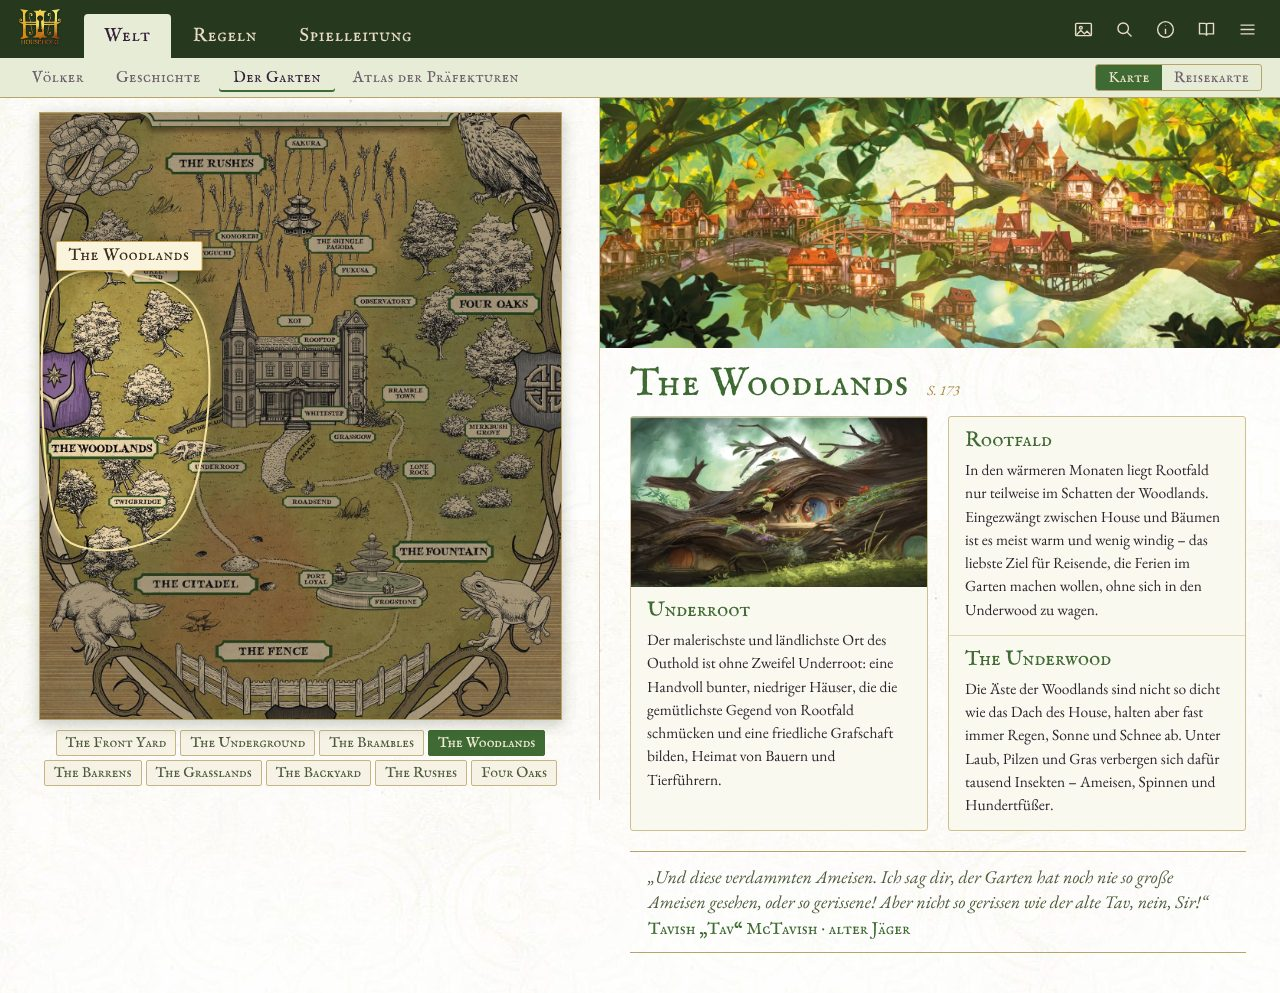
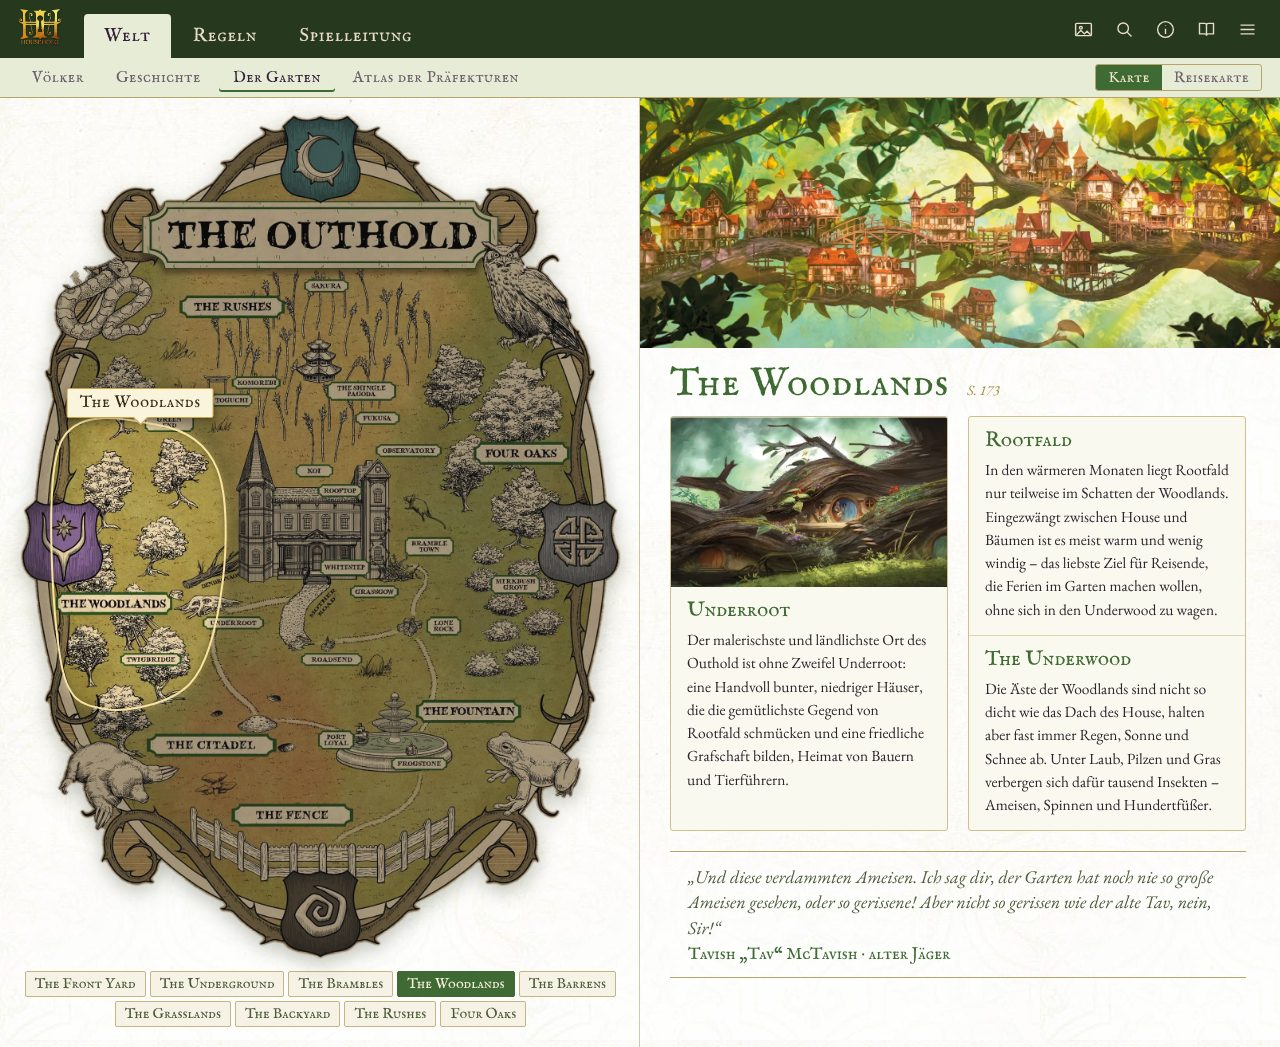
Household: Outhold-Karte vom Holz freigestellt, Garten-Mockup

diff --git a/plan/household/mockups/src/m6-garten.html b/plan/household/mockups/src/m6-garten.html
@@ -3,9 +3,9 @@
 :root{--vio:#3f6a34;--vio2:#6d8f4e;--rule:#b7a46a}
 body{background-image:url(deko/papier-garten-kachel.jpg)}
 .unter{background:#e7ecd6}.unter .sw a.on{background:#3f6a34}
-.lay{display:grid;grid-template-columns:600px 1fr;gap:0;align-items:start}
-.karte{position:sticky;top:98px;padding:14px 16px 14px 18px;border-right:1px solid rgba(183,164,106,.6);height:calc(100vh - 98px);display:flex;flex-direction:column;gap:10px}
-.karte .mp{position:relative;flex:1;min-height:0;display:flex;justify-content:center}.karte .mp .in{position:relative;height:100%;aspect-ratio:1360/1584;border:1px solid #b7a46a;box-shadow:0 4px 14px rgba(40,50,20,.25)}.karte .mp img{width:100%;height:100%;display:block}
+.lay{display:grid;grid-template-columns:640px 1fr;gap:0;align-items:start}
+.karte{padding:16px 18px 20px 20px;border-right:1px solid rgba(183,164,106,.6);display:flex;flex-direction:column;gap:12px}
+.karte .mp{position:relative}.karte .mp .in{position:relative;width:100%;aspect-ratio:1508/2120;filter:drop-shadow(0 6px 10px rgba(40,50,20,.3))}.karte .mp img{width:100%;height:100%;display:block}.karte .spot{-webkit-mask:var(--mk) center/100% 100% no-repeat;mask:var(--mk) center/100% 100% no-repeat}
 .karte .hot{position:absolute;border:2px solid #fff6c9;background:rgba(63,106,52,.25);box-shadow:0 0 0 2px #3f6a34,0 0 16px rgba(255,245,190,.9);border-radius:50%}
 .geb{display:flex;flex-wrap:wrap;gap:4px;justify-content:center}
 .geb a{font:14.5px Fell,serif;padding:3px 9px;border:1px solid #c5b585;border-radius:2px;color:#4c5a3a;background:#f6f3e6}
@@ -24,7 +24,7 @@ body{background-image:url(deko/papier-garten-kachel.jpg)}
 </style></head><body>
 <script>kopf({bg:'#26391f',on:'Welt',unterBg:'#e7ecd6',unter:['Völker','Geschichte','Der Garten','Atlas der Präfekturen'],uon:'Der Garten',sw:['Karte','Reisekarte'],swon:'Karte',logo:img('grundbuch-s-01-umschlag-vorspann-c')})</script>
 <div class="lay">
- <div class="karte"><div class="mp"><div class="in" id="mp"><img src="deko/outhold-innen.jpg"></div></div>
+ <div class="karte"><div class="mp"><div class="in" id="mp"><img id="ki"></div></div>
   <div class="geb"><a>The Front Yard</a><a>The Underground</a><a>The Brambles</a><a class="on">The Woodlands</a><a>The Barrens</a><a>The Grasslands</a><a>The Backyard</a><a>The Rushes</a><a>Four Oaks</a></div></div>
  <div class="inh">
   <div class="pano" id="pa"></div>
@@ -37,8 +37,8 @@ body{background-image:url(deko/papier-garten-kachel.jpg)}
   </div>
  </div>
 </div>
-<script>spot(mp,[[2,30],[20,27],[31,34],[32,52],[26,68],[10,72],[2,64]],'The Woodlands',17,26);pa.style.backgroundImage='url('+img('garten-s178-179-vii-the-woodlands-ganz')+')';i1.style.backgroundImage='url('+img('garten-s173-vii-the-woodlands')+')';</script>
+<script>var K=img('garten-s153-karte-des-gartens-the-outhold-frei');ki.src=K;mp.style.setProperty('--mk','url('+K+')');spot(mp,[[6.7,39],[22.9,36.8],[32.8,42],[33.7,55.5],[28.3,67.4],[13.9,70.4],[6.7,64.4]],'The Woodlands',20,36);pa.style.backgroundImage='url('+img('garten-s178-179-vii-the-woodlands-ganz')+')';i1.style.backgroundImage='url('+img('garten-s173-vii-the-woodlands')+')';</script>
 <div class="note" style="left:20px;top:60px;max-width:300px">Untersetting Garten: eigenes Grün, gleiche Bedienung</div>
-<div class="note" style="left:330px;top:560px;max-width:260px">Karte ohne Rahmen und größer; Rest abgedunkelt, Gebiet mit feiner Goldlinie</div>
+<div class="note" style="left:330px;top:560px;max-width:260px">Karte samt Dornenrahmen vom Holz freigestellt, groß; Gebiet mit feiner Goldlinie</div>
 <div class="note" style="left:960px;top:110px;max-width:260px">Umschalter Karte / Reisekarte (Taste m)</div>
 </body></html>

diff --git a/sw.js b/sw.js
@@ -1,6 +1,6 @@
 // Offline-Cache. Bei jeder Änderung an index.html die Version erhöhen,
 // damit installierte Apps die neue Fassung laden.
-const VERSION = "v900sq";
+const VERSION = "v901sq";
 const CACHE = "erzaehler-tafel-" + VERSION;
 const FILES = [
   "./",

diff --git a/plan/HOUSEHOLD_PLAN.md b/plan/HOUSEHOLD_PLAN.md
@@ -136,6 +136,7 @@ Unter `plan/household/mockups/` (je mit `-erklaert`-Fassung), Quellen in `src/` 
 - **m7-saga-start-fp / m8-saga-start-lw** – Saga-Startseite („Überblick“ als erster Reiter der Saga-Leiste, eine Vorlage `m7-saga-start.html#fp|#lw`): Hero, Einleitung aus dem Buch, Fakten (Zeitraum, Schauplatz, Figuren, ausgearbeitet/skizziert, Epilog, Gruppe), Wege in die Saga, Empfehlung mit Porträts, Gruppengröße bzw. Epilog/Figuren-Merkmale, Saga-Plan wie in der Buchübersicht (FP S.66/67, LW S.78): jede Zeile ein Paragraph bzw. eine Jahreszeit mit Zeitraum, jedes Abenteuer mit 2×2-Porträts der Protagonisten und Farblinie der Nation (FP, aus dem Buch ausgelesen) bzw. Jahreszeit (LW). Daten in `src/sagadaten.js` (Protagonisten aus dem Text; Buchfehler LW „Yojimbo’s Trials“: „Kurai Shiro“ = Kurai, Shiro).
 - Dining-Hall-Markierung: Nach dem Guide besteht das Realm aus Dining Hall **und** Kitchen; die grüne Fläche im Plan ist das ganze Realm. Die Kitchen ist der obere Raum (Herd, Spüle), Glasburg/Cupboard steht am Durchgang. Markiert wird nur der untere Raum.
 - **Hauspläne:** Guide hat je Stockwerk einen ausführlichen Plan (Erdgeschoss S.12/13 mit Realm, S.56/57 mit Hearth, Obergeschoss S.98/99, Keller S.142/143), Grundbuch S.205 alle Stockwerke klein. Neu zusammengesetzt: `guide-s012-057-hausplan-erdgeschoss-komplett` (beide Erdgeschoss-Pläne liegen pixelgenau übereinander; links Realm, rechts Hearth inkl. der blauen Fläche neben der Großen Treppe; Wappen halb/halb). Das ist der Erdgeschoss-Plan fürs Tool.
+- **Outhold-Karte freigestellt:** `garten-s153-karte-des-gartens-the-outhold-frei` – Karte samt Dornenrahmen, Wappen und Tieren vom Holzhintergrund getrennt (Transparenz, keine rechteckige Beschneidung). Im Tool groß links, Markierung per Maske auf die Kartenform begrenzt.
 - **Saga-Leiste:** kein eigener Reiter „Überblick“ – der Saga-Name ist der Reiter für die Saga-Startseite.
 Schriften im Entwurf: IM Fell English SC (Überschriften) und EB Garamond (Text) als Ersatz für Sydonia/Minion; die Buchschriften sind nur als Teilsätze eingebettet und müssten wie bei Heart zusammengesetzt werden.
 Deko aus dem Grundbuch in `src/deko/`: Seitenpapier, Tapeten-Banner (grün Realm, blau Hearth, rot Free Dominions, gold Horde, lila Regeln), Fraktions-Medaillen mit Band.
